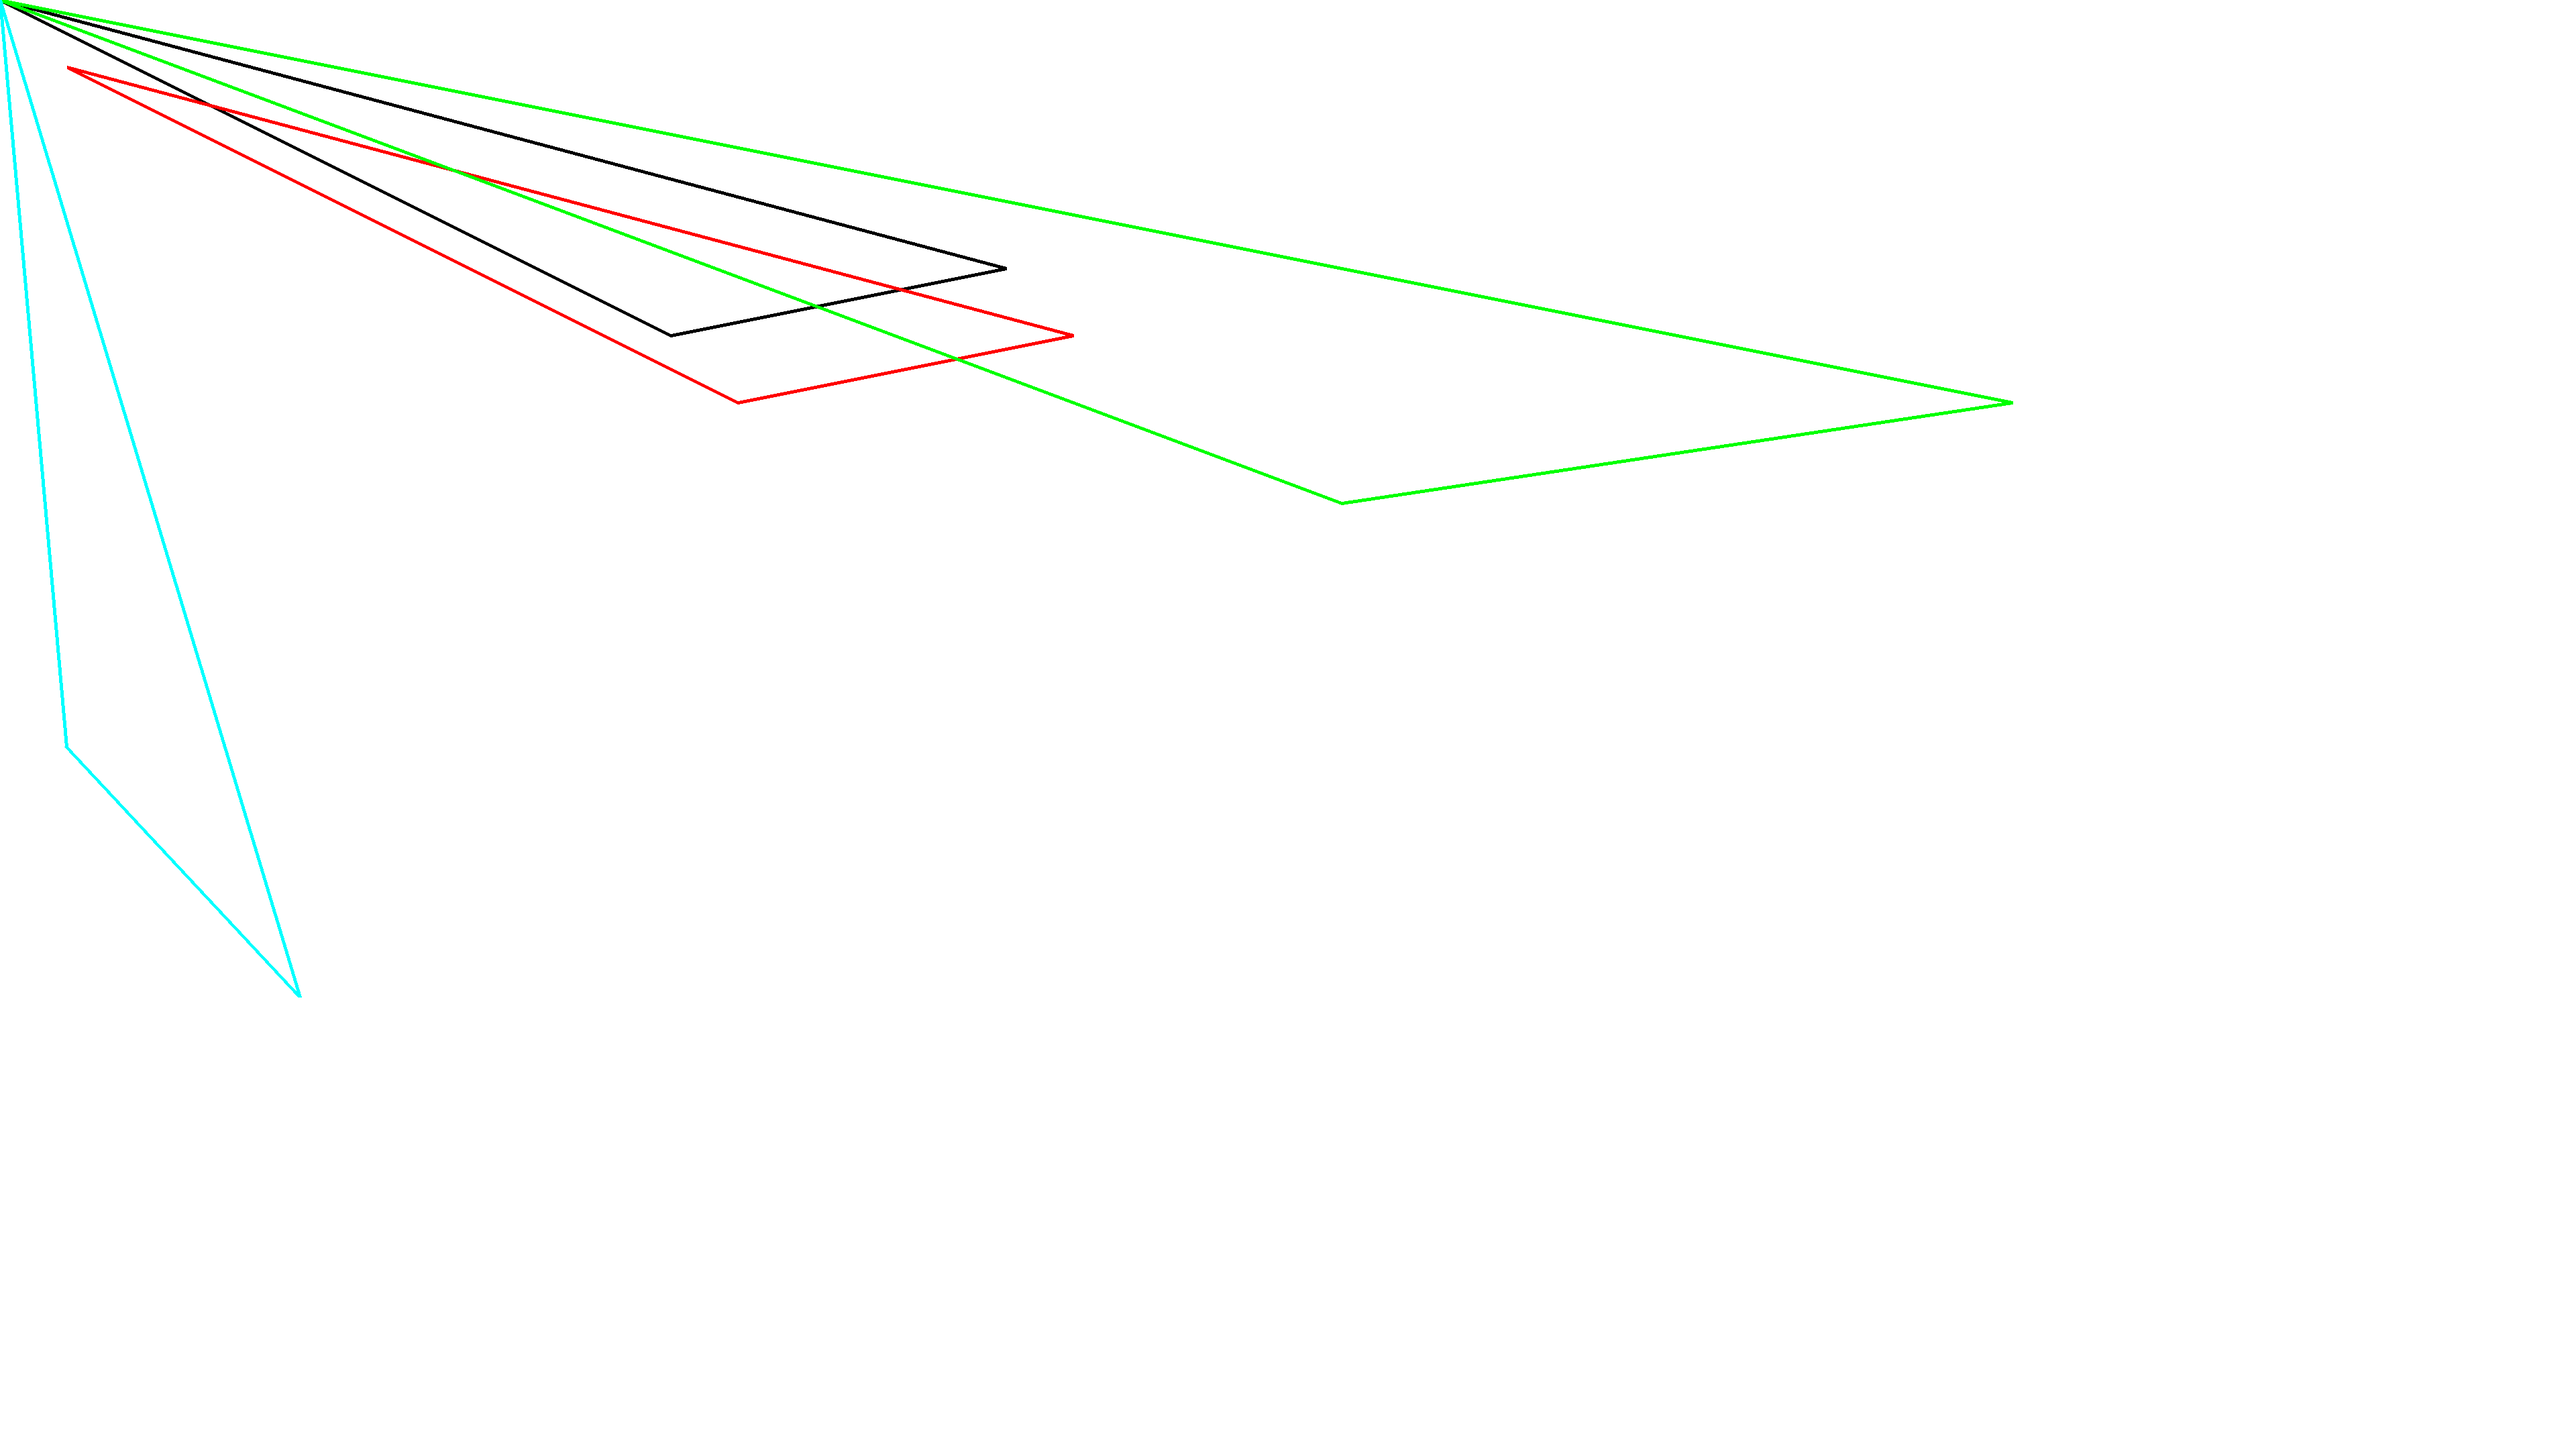
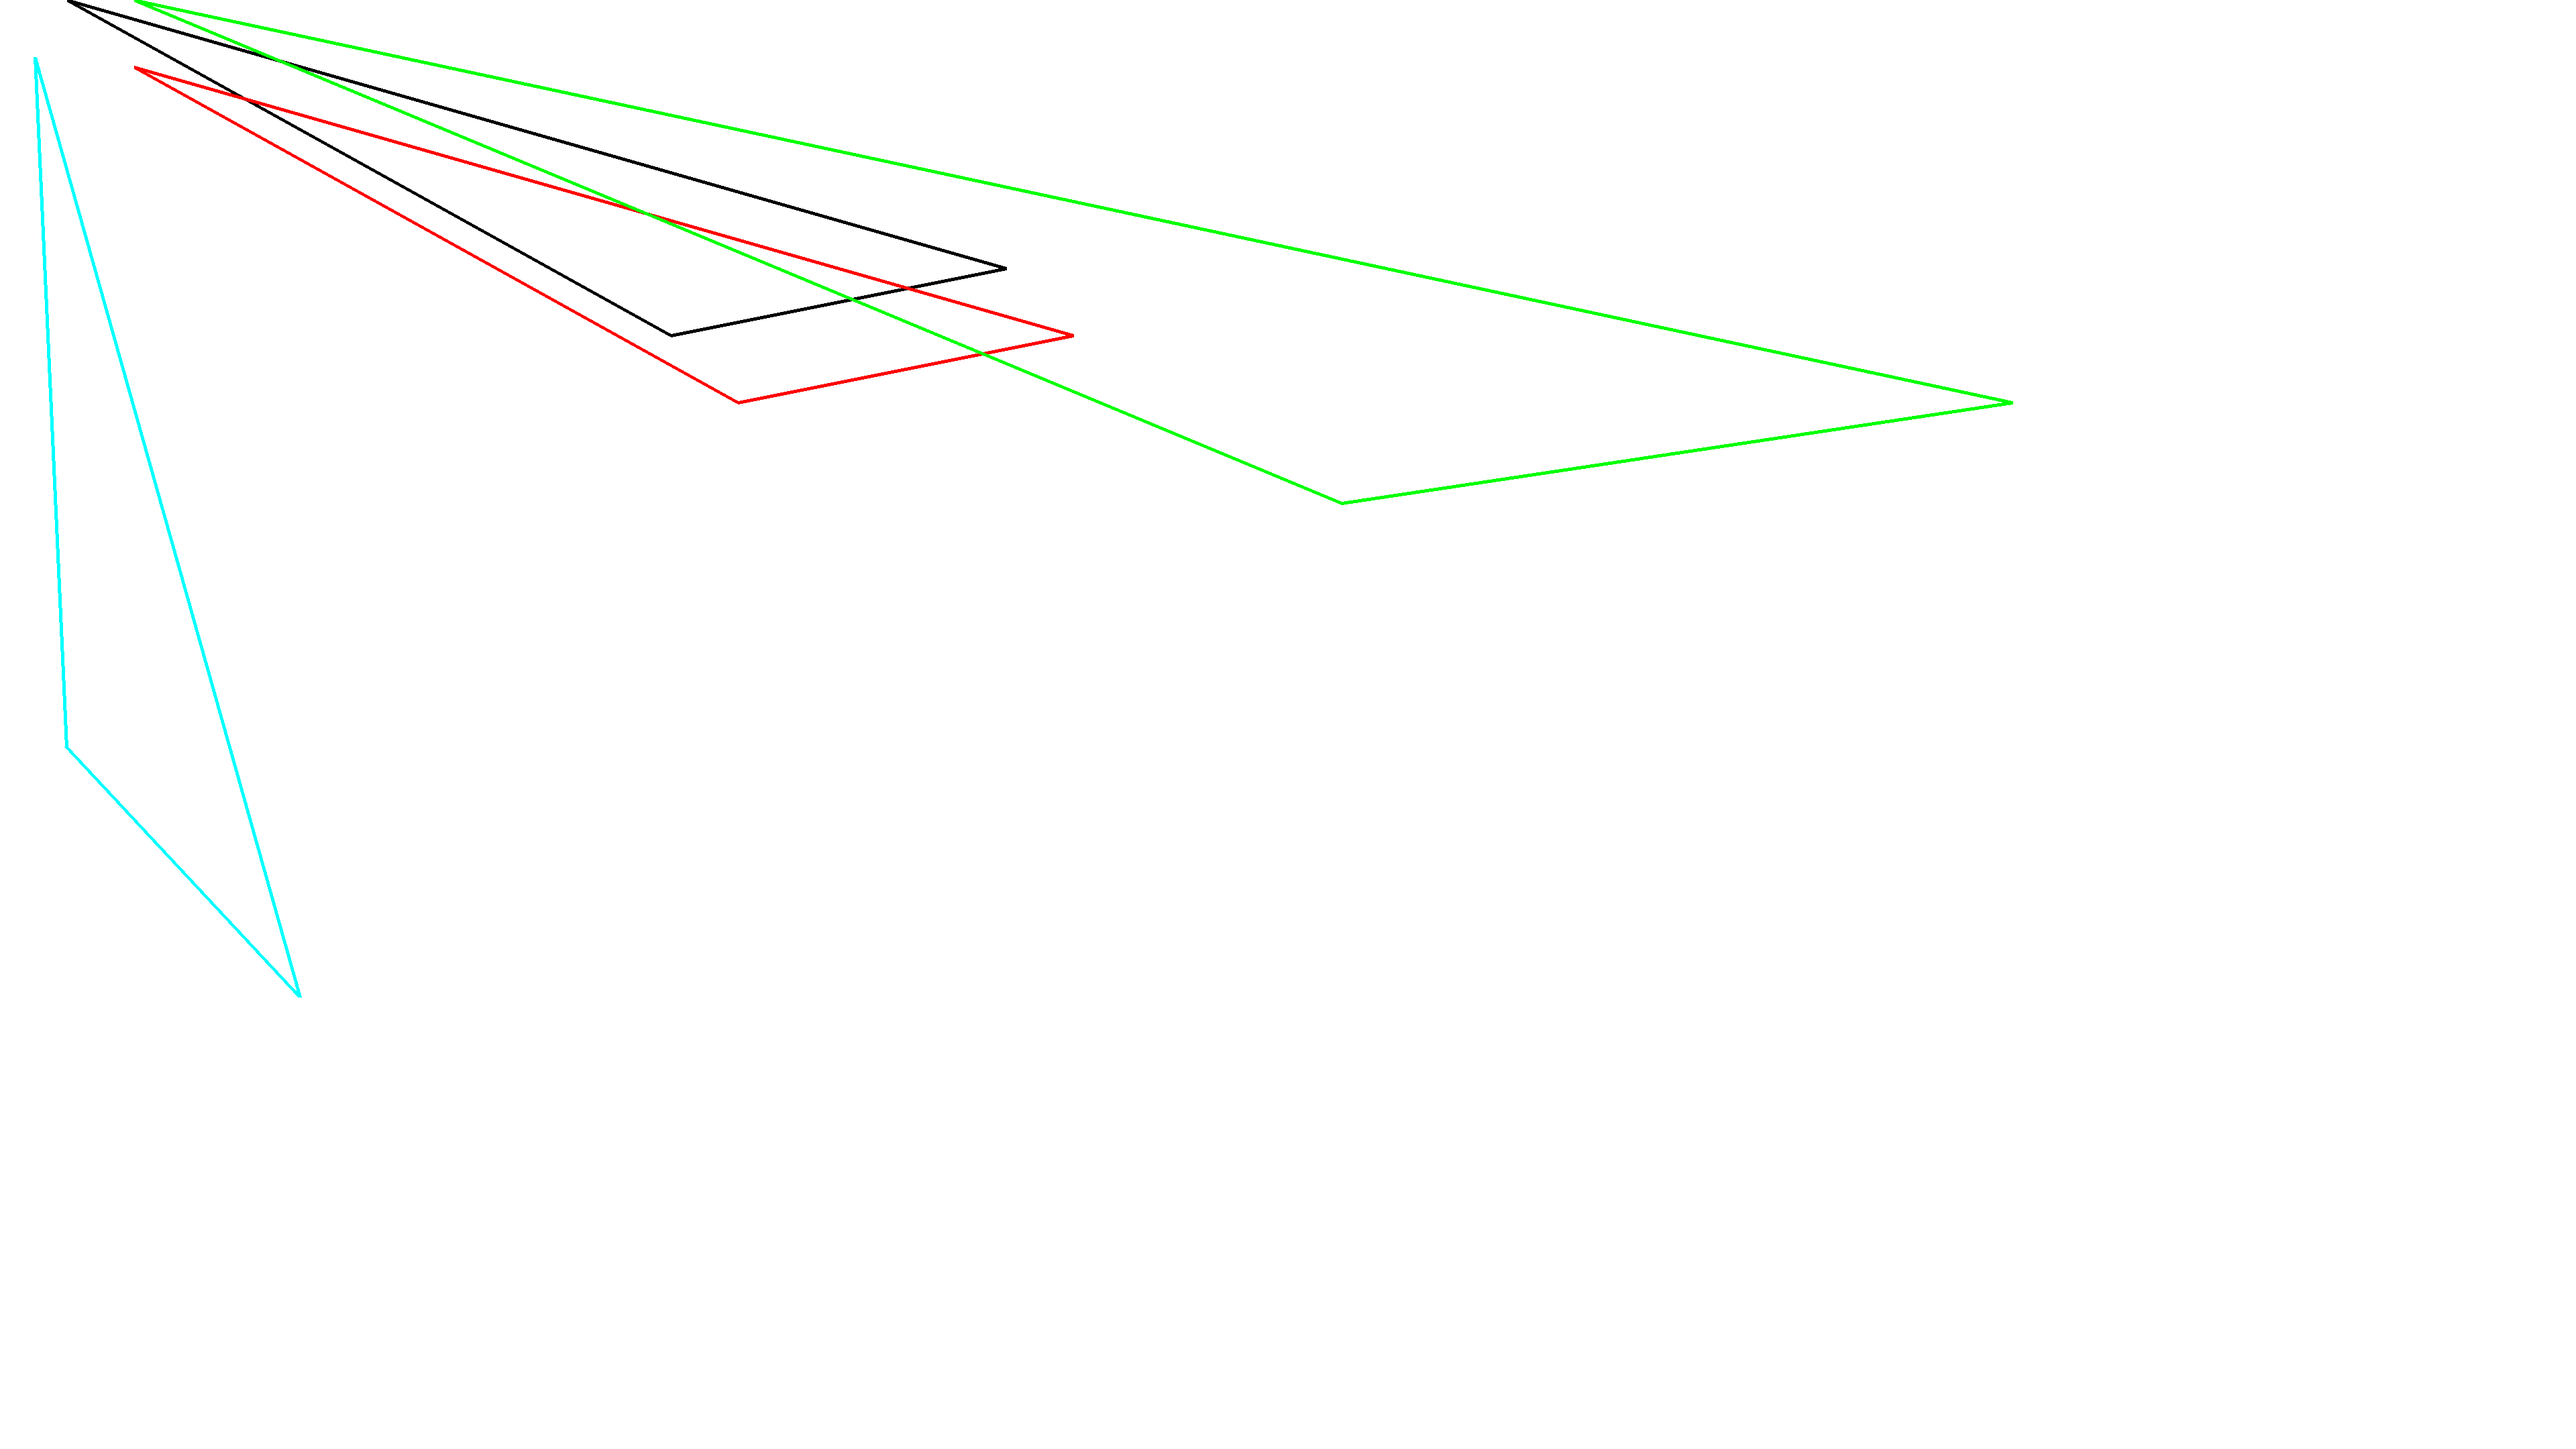
change dithering example

diff --git a/transformation tasks/transformation.php b/transformation tasks/transformation.php
@@ -24,7 +24,7 @@ imagesetthickness($image, 5);
 
 // Draw the polygon
 $points = array(
-    0, 0,
+    100, 0,
     1500, 400,
     1000, 500
 );
